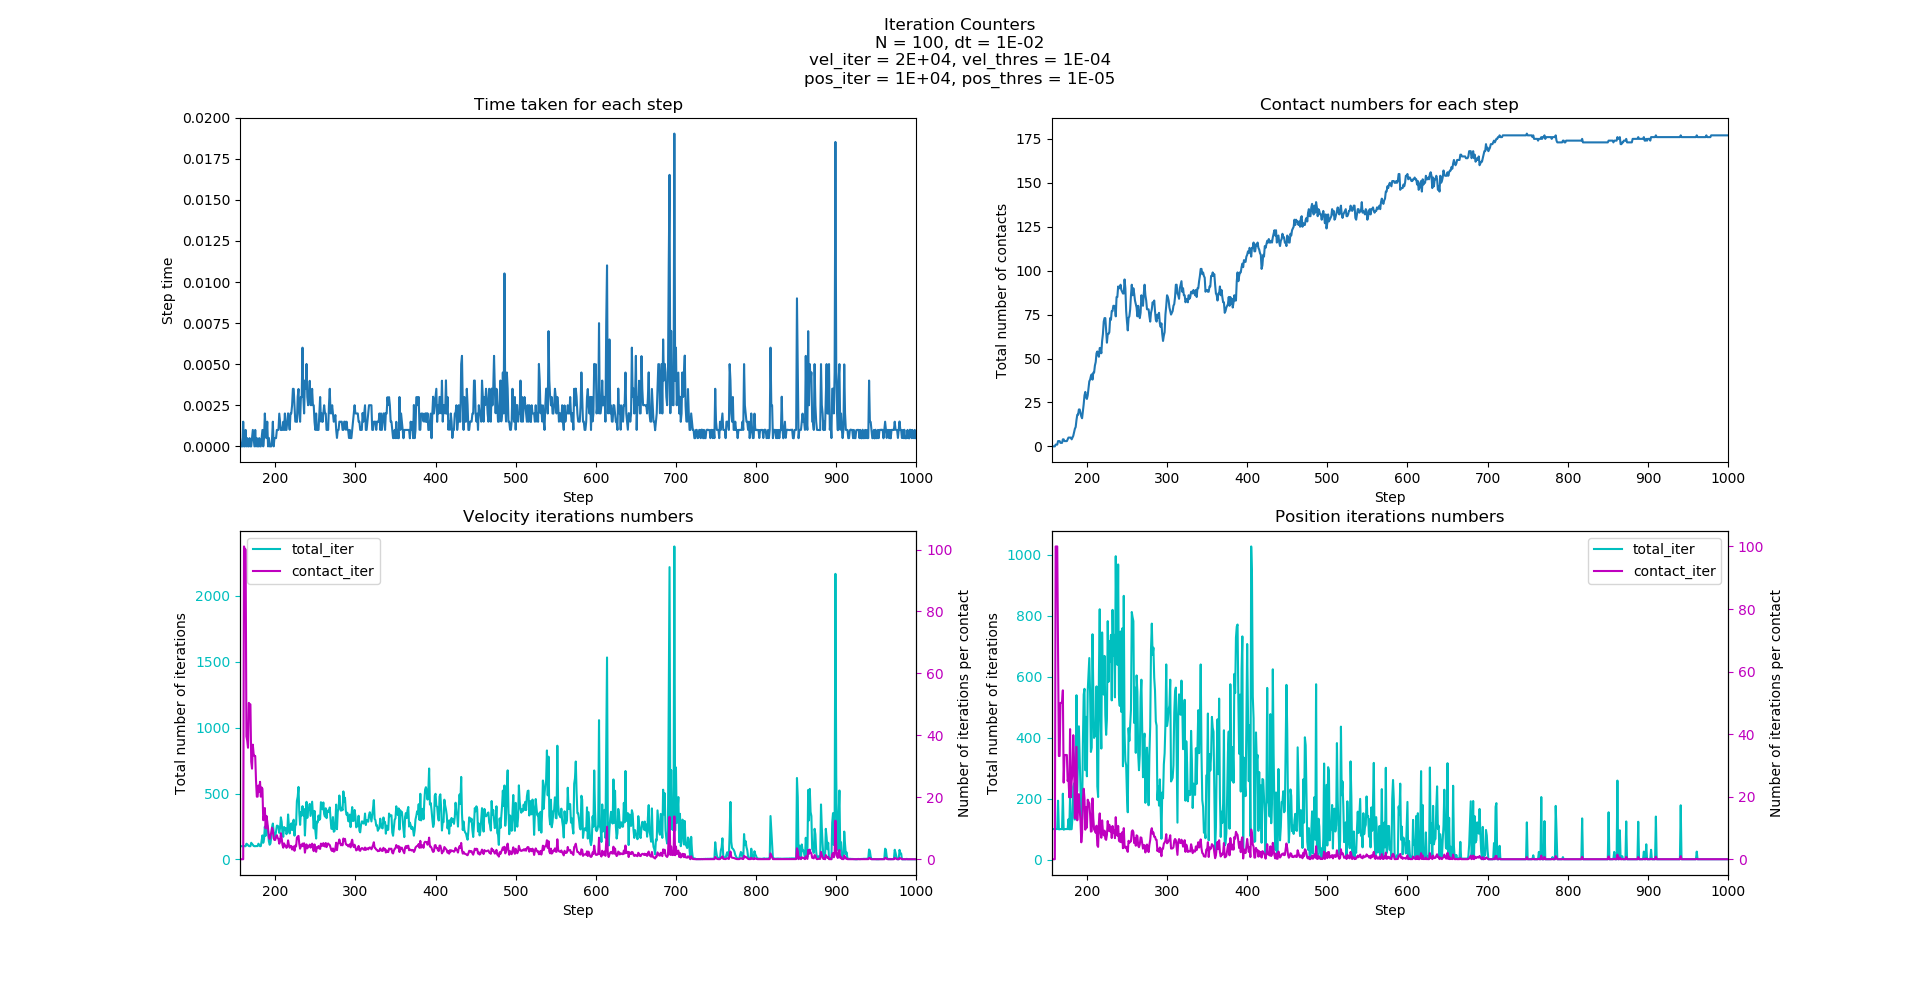
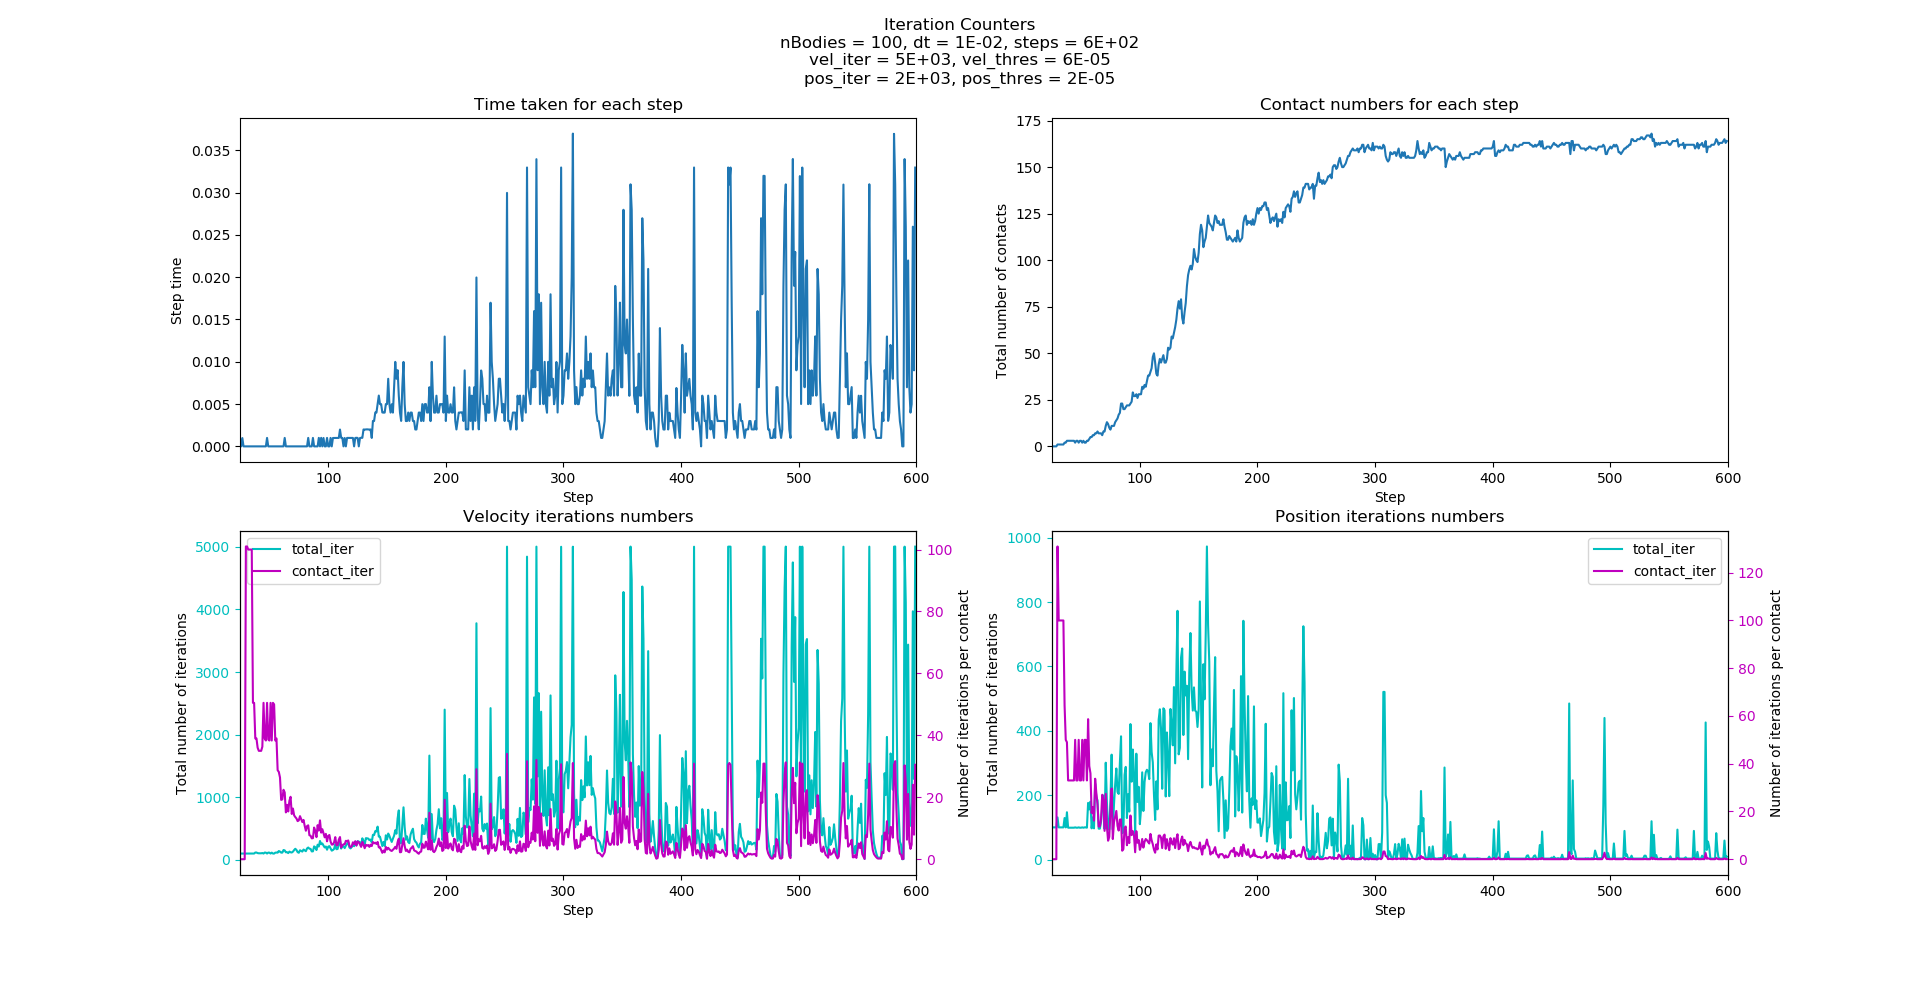
Updated plotting to include CNN model

diff --git a/src/warm_starting/nn_model.py b/src/warm_starting/nn_model.py
@@ -1,0 +1,81 @@
+import numpy as np
+
+from .model import Model
+from ..sph.gridsplat import world_body_dataframe, world_contact_dataframe, SPHGridManager
+
+# Disables stupid tensorflow warnings about cpu instructions
+import os
+os.environ['TF_CPP_MIN_LOG_LEVEL'] = '2'
+
+class NNModel ():
+    def __init__(self, cnn):
+        self.cnn = cnn
+
+
+    def Step(self, world, timeStep, velocityIterations, positionIterations):
+        self.predictions = {}
+
+        # We create the dataframes for the current world
+        b_df = world_body_dataframe(world)
+        c_df = world_contact_dataframe(world)
+
+        # No reason to waste time on calling model if there are no contacts
+        if c_df.empty:
+            return
+
+        # We create the grids for the current world
+        params = self.cnn.params
+        self.gm = SPHGridManager(params["p_ll"], params["p_ur"],
+                                 params["xRes"], params["yRes"],
+                                 params["h"])
+        self.gm.create_grids(b_df, params["body_channels"])
+        self.gm.create_grids(c_df, params["contact_channels"])
+
+        # We transform the grids into input for the cnn
+        grids = []
+        for grid in self.gm.grids.values():
+            grids.append(grid)
+
+        grids = np.array(grids, dtype=np.float32)
+        grids = np.rollaxis(grids, 0, 3)
+
+        # We feed the input to the cnn
+        ni_grid, ti_grid = self.cnn.predict(grids)
+        ni_grid = np.reshape(ni_grid, (params["N_x"], params["N_y"]))
+        ti_grid = np.reshape(ti_grid, (params["N_x"], params["N_y"]))
+
+        # We assign ids to contacts and create a list of contact positions
+        ic = 0
+        points = []
+        for c in world.contacts:
+            if c.touching:
+                c.userData = ic
+                ic += 1
+
+                #for i in range(contact.manifold.pointCount):   # We assume circles!!!
+                px = c.worldManifold.points[0][0]
+                py = c.worldManifold.points[0][1]
+                points.append([px, py])
+
+        # Tell GM to transfer from grids to contacts
+        grids = np.array([ni_grid, ti_grid])
+        points = np.array(points)
+        values = self.gm.grids_to_particles(grids, points)
+
+        # We store the results for easy acces
+        for i in range(len(values)):
+            self.predictions[i] = values[i]
+
+
+    def Predict(self, contact):
+        # Again, we assume circles for now
+        ic = contact.userData
+        prediction = self.predictions.get(ic, [])
+        if len(prediction) == 0:
+            print("Contact not found!")
+            return [(contact.manifold.points[0].id, 0, 0)]
+
+        normalImpulse  = prediction[0]
+        tangentImpulse = prediction[1]
+
+        return [(contact.manifold.points[0].id, normalImpulse, tangentImpulse)]

diff --git a/src/warm_starting/single_model_plots.py b/src/warm_starting/single_model_plots.py
@@ -8,23 +8,25 @@ from .random_model import RandomModel
 from .parallel_world_model import ParallelWorldModel
 from .copy_world_model import CopyWorldModel
 from .identity_grid_model import IdentityGridModel
+from .nn_model import NNModel
 
 from Box2D import (b2World, b2Vec2)
 
 from ..gen_world import new_confined_clustered_circles_world
 from .warm_start import run_world
+from ..tensorflow.cnn import CNN
 
 
 # ----- Parameters -----
 # Number of bodies in world
 nBodies = 100
 # Seed to use for body generator
-seed = 1234
+seed = 123
 # Something about spread of bodies?
 sigma_coef = 1.2
 # Dimension of static box
-xlow, xhi = 0, 50
-ylow, yhi = 0, 50
+xlow, xhi = 0, 30
+ylow, yhi = 0, 30
 # body radius min and max
 r = (1, 1)
 
@@ -37,19 +39,8 @@ positionIterations = 2500
 velocityThreshold = 6*10**-5
 positionThreshold = 2*10**-5
 # Number of steps
-steps = 1000
+steps = 600
 
-# Grid parameters - only relevant for identity grid model
-# Grid lower left point
-p_ll = (xlow, ylow)
-# Grid upper right point
-p_ur = (xhi, yhi)
-# Grid x-resolution
-xRes = 0.75
-# Grid y-resolution
-yRes = 0.75
-# Support radius
-h = 1
 
 # Create world in case model needs it
 world = b2World()
@@ -57,20 +48,22 @@ world = b2World()
 new_confined_clustered_circles_world(world, nBodies, b2Vec2(xlow, ylow), b2Vec2(xhi, yhi), r, sigma_coef, seed)
 
 # Choose a model
-model = None
-#model = BuiltinWarmStartModel()
+#model = None
+model = BuiltinWarmStartModel()
 #model = BadModel()
 #model = RandomModel(0)
 #model = ParallelWorldModel(world)
 #model = CopyWorldModel()
-#model = IdentityGridModel(p_ll, p_ur, xRes, yRes, h)
+#model = IdentityGridModel((xlow, ylow), (xhi, yhi), 0.25, 0.25, 1)
+#model = NNModel(CNN({}))
+
 
 # Iteration counter plots
 plotIterationCounters = True
 # Velocity convergence rate plots
 plotVelocityConvergenceRates = True
 # Position convergence rate plots
-plotPositionConvergenceRates = True
+plotPositionConvergenceRates = False
 # Limit on percentage of contributors left for cutoff (see convergence plots)
 limit = 0.2
 
@@ -79,7 +72,6 @@ printing = True
 # Show visualization of world as simulation is running
 # note: significantly slower
 visualize = False
-
 
 
 # ----- Run simulation -----

diff --git a/src/warm_starting/multiple_models_plots.py b/src/warm_starting/multiple_models_plots.py
@@ -8,23 +8,25 @@ from .random_model import RandomModel
 from .parallel_world_model import ParallelWorldModel
 from .copy_world_model import CopyWorldModel
 from .identity_grid_model import IdentityGridModel
+from .nn_model import NNModel
 
 from Box2D import (b2World, b2Vec2)
 
 from ..gen_world import new_confined_clustered_circles_world
 from .warm_start import run_world
+from ..tensorflow.cnn import CNN
 
 
 # ----- Parameters -----
 # Number of bodies in world
 nBodies = 100
 # Seed to use for body generator
-seed = 1234
+seed = 123
 # Something about spread of bodies?
 sigma_coef = 1.2
 # Dimension of static box
-xlow, xhi = 0, 50
-ylow, yhi = 0, 50
+xlow, xhi = 0, 30
+ylow, yhi = 0, 30
 # body radius min and max
 r = (1, 1)
 
@@ -37,19 +39,8 @@ positionIterations = 2500
 velocityThreshold = 6*10**-5
 positionThreshold = 2*10**-5
 # Number of steps
-steps = 1000
+steps = 600
 
-# Grid parameters - only relevant for identity grid model
-# Grid lower left point
-p_ll = (xlow, ylow)
-# Grid upper right point
-p_ur = (xhi, yhi)
-# Grid x-resolution
-xRes = 0.75
-# Grid y-resolution
-yRes = 0.75
-# Support radius
-h = 1
 
 # Number of models to use
 nModels = 4
@@ -60,12 +51,13 @@ for _ in range(nModels):
     # Fill world with static box and circles
     new_confined_clustered_circles_world(world, nBodies, b2Vec2(xlow, ylow), b2Vec2(xhi, yhi), r, sigma_coef, seed)
     worlds.append(world)
+
 # Choose the models, each as a pair of a model and a name.
 # In case a model needs inputs, make sure to provide them, and in particular make sure to use the correct world
 models = [
     (None, "None"),
     (BuiltinWarmStartModel(), "Builtin"),
-    (IdentityGridModel(p_ll, p_ur, xRes, yRes, h), "Grid"),
+    (NNModel(CNN({})), "CNN"),
     (CopyWorldModel(), "Copy")
 ]
 
@@ -76,10 +68,10 @@ plotVelocityConvergenceRates = True
 # 0 for min, 25 for 1st quantile, 50 for median, 75 for 3rd quantile, 100 for max
 velocityPercentile = 50
 # Cutoff for convergence rate plot
-velocityCutoff = 500
+velocityCutoff = 1000
 
 # Position convergence rate plots
-plotPositionConvergenceRates = True
+plotPositionConvergenceRates = False
 # Percentile to plot
 positionPercentile = 50
 # Cutoff for convergence rate plot

diff --git a/src/warm_starting/util.py b/src/warm_starting/util.py
@@ -22,4 +22,8 @@ def copyWorld(world):
                         linearVelocity=b2Vec2(body.linearVelocity.x, body.linearVelocity.y),
                         angularVelocity=body.angularVelocity)
 
+    for body in copy.bodies:
+        body.sleepingAllowed = False
+
+
     return copy
